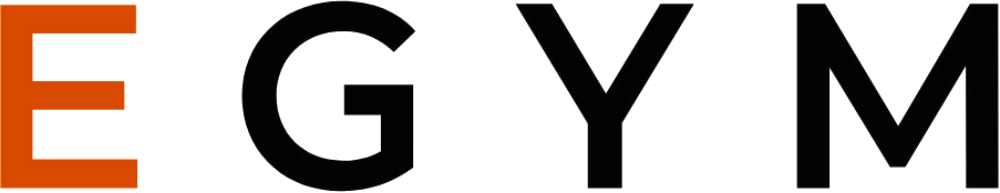
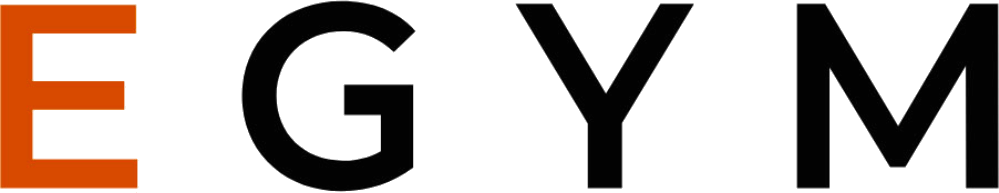
v1.36.0 review fixes: raster marks lose the margins their opaque ground hid, the clients test checks tight boxes and transparent grounds, the chevron note names both routes
Consumers (final state of v1.36.0):
- clients/bunting.webp is 165 x 52 (was 168 x 65 with a white margin of 7 rows above, 6 below
  and 3 columns right, hidden by its old opaque ground); egym.webp and haufe-group.webp lose one
  transparent column. Bünting's height is 0.577 (the release commit wrote 0.671).
- test/clients.test.ts fails on a mark whose box keeps more than one pixel at 2400 px of rim and
  an antialiased pixel per side, on a mark with no transparent edge pixel, and on a height more
  than 0.005 from its recomputed value. Controls: the pre-1.36 moia.svg and ionos.webp fail it.
- scripts/clients.ts renders each mark once as raw pixels; the heights are unchanged. Its
  comment states the rule's terms.
- README: a chevron span beside a heading with a shorter line makes a centred row as tall as the
  summary's line; inside the heading, or given the heading's type (text-lg), it keeps the
  heading's height (os /surveys: 32.0 px now, 29.6 px with either route).
Renamed: clients/neue-fische.webp -> clients/neue-fische.svg. No command is renamed, no argument
changes.

diff --git a/scripts/clients.ts b/scripts/clients.ts
@@ -1,9 +1,8 @@
 #!/usr/bin/env bun
 // Writes each client mark's `height` into clients/clients.json: the share of a row's height at which
-// the mark reads at the same visual weight as the others. Every mark covers row² × 1.1, a wide mark
-// a little more per unit of log aspect, a light, thin mark more than a dense one (ink share against
-// a typical 0.27, the factor clamped to 0.8 to 1.6), never taller than the row. The mark's width is
-// that height times the aspect of its file; test/clients.test.ts fails on a stale height.
+// it reads as heavy as the others. Every mark covers row² × 1.1, a wide mark a little more per unit
+// of log aspect (aspect^0.1), a light, thin mark more than a dense one (the square root of a typical
+// ink share of 0.27 over its own, clamped to 0.8 to 1.6), never taller than the row.
 // Usage: bun scripts/clients.ts
 import { readFileSync, writeFileSync } from "node:fs";
 import { join } from "node:path";
@@ -14,9 +13,17 @@ const FILE = join(ROOT, "clients/clients.json");
 
 type Client = { name: string; file: string; height?: number; [key: string]: unknown };
 
+/** A mark's pixels at print density. */
+export const render = (file: string) =>
+  sharp(join(ROOT, "clients", file), { density: 600 })
+    .ensureAlpha()
+    .raw()
+    .toBuffer({ resolveWithObject: true });
+type Pixels = Awaited<ReturnType<typeof render>>;
+
 /** Share of the mark's box covered by ink: opaque and dark counts fully. */
-async function ink(png: Buffer) {
-  const { data, info } = await sharp(png)
+async function ink(mark: Pixels) {
+  const { data, info } = await sharp(mark.data, { raw: mark.info })
     .resize({ height: 80 })
     .raw()
     .toBuffer({ resolveWithObject: true });
@@ -28,13 +35,9 @@ async function ink(png: Buffer) {
   return sum / (info.width * info.height);
 }
 
-export async function height(file: string) {
-  const { data, info } = await sharp(join(ROOT, "clients", file), { density: 600 })
-    .ensureAlpha()
-    .png()
-    .toBuffer({ resolveWithObject: true });
-  const aspect = info.width / info.height;
-  const weight = Math.min(1.6, Math.max(0.8, Math.sqrt(0.27 / (await ink(data)))));
+export async function height(mark: Pixels) {
+  const aspect = mark.info.width / mark.info.height;
+  const weight = Math.min(1.6, Math.max(0.8, Math.sqrt(0.27 / (await ink(mark)))));
   return Math.round(Math.min(1, Math.sqrt((1.1 * weight * aspect ** 0.1) / aspect)) * 1000) / 1000;
 }
 
@@ -42,6 +45,6 @@ export const clients = (): Client[] => JSON.parse(readFileSync(FILE, "utf8"));
 
 if (import.meta.main) {
   const list = clients();
-  for (const c of list) c.height = await height(c.file);
+  for (const c of list) c.height = await height(await render(c.file));
   writeFileSync(FILE, JSON.stringify(list, null, 2) + "\n");
 }

diff --git a/test/clients.test.ts b/test/clients.test.ts
@@ -1,15 +1,27 @@
 import { expect, test } from "bun:test";
-import { existsSync } from "node:fs";
-import { join } from "node:path";
-import { clients, height } from "../scripts/clients";
-import { ROOT } from "../scripts/git";
+import sharp from "sharp";
+import { clients, height, render } from "../scripts/clients";
 
-test("every client mark exists and its height is fresh", async () => {
+// Each mark's box ends on its drawn edge, one pixel at 2400 px of rim and an antialiased pixel per renderer
+// apart, and some pixel on its edge is transparent, so its ground is too. Its height is fresh.
+test("every client mark is tight on a transparent ground and its height is fresh", async () => {
   for (const c of clients()) {
-    expect(existsSync(join(ROOT, "clients", c.file))).toBe(true);
-    expect({ file: c.file, height: c.height }).toEqual({
+    const mark = await render(c.file);
+    const { width, height: tall, channels } = mark.info;
+    const { info } = await sharp(mark.data, { raw: mark.info })
+      .trim({ threshold: 0 })
+      .toBuffer({ resolveWithObject: true });
+    const slack = (2 * Math.max(width, tall)) / 2400 + 4;
+    const alpha = (x: number, y: number) => mark.data[(y * width + x) * channels + 3];
+    const edge = [
+      ...Array.from({ length: width }, (_, x) => [alpha(x, 0), alpha(x, tall - 1)]),
+      ...Array.from({ length: tall }, (_, y) => [alpha(0, y), alpha(width - 1, y)]),
+    ].flat();
+    expect({
       file: c.file,
-      height: await height(c.file),
-    });
+      tight: width - info.width <= slack && tall - info.height <= slack,
+      transparent: edge.includes(0),
+    }).toEqual({ file: c.file, tight: true, transparent: true });
+    expect(c.height).toBeCloseTo(await height(mark), 2);
   }
-});
+}, 30_000);

diff --git a/README.md b/README.md
@@ -200,13 +200,12 @@ A native `<details>` wears the brand chevron in place of the browser's triangle:
 `disclosure.css`, or the expert layer, which imports it, and give the details the class
 `hw-disclosure`. The chevron is Lucide's chevron-right in the summary's text colour, 1em wide,
 0.5rem before the label, in the middle of its first line where the summary aligns on the baseline
-or the start, in a box one line of its own type high, and turns down while open (150 ms, at once under reduced motion). Where
+or the start, and turns down while open (150 ms, at once under reduced motion). Where
 the chevron belongs elsewhere in the summary, inside its heading for one, put
-`<span class="hw-disclosure-chevron" aria-hidden="true"></span>` there. A span beside a heading
-whose line is shorter than the summary's makes a centred row as tall as the summary's line: give
-the span the heading's type (`text-lg` beside a `text-lg` heading) to keep the heading's height.
-`hw-disclosure-count` is
-the neutral count pill. The rules sit in `@layer components`, so the surface's own type, colour,
+`<span class="hw-disclosure-chevron" aria-hidden="true"></span>` there: its box is one line of
+the type around it high, so beside a heading with a shorter line it makes a centred row as tall
+as the summary's line; inside the heading, or given the heading's type, it keeps the heading's. `hw-disclosure-count` is the
+neutral count pill. The rules sit in `@layer components`, so the surface's own type, colour,
 padding and Tailwind utilities win.
 
 ### The shared elements

diff --git a/CLAUDE.md b/CLAUDE.md
@@ -30,9 +30,9 @@ data or secret.
 - `clients/`: the client marks h&w may show, this repo's own: `clients.json` lists each client's
   name and mark file in display order, keeping neighbours from different industries, with the
   mark's source where known. `"onepager": false` keeps a mark off the os onepagers' client row,
-  which shows every other entry. Each mark's box ends on its drawn edge, its ground transparent;
-  its `height`, the share of a row it takes at equal visual weight, comes from
-  `bun scripts/clients.ts`, which the unit tests check. Outside `manifest.json`.
+  which shows every other entry. `bun scripts/clients.ts` writes each mark's `height` (README);
+  `test/clients.test.ts` fails on a stale one or a mark whose box does not end on its drawn edge.
+  Outside `manifest.json`.
 - `applications/<family>/`: the files made from the brand for one use each, outside the package:
   device and call backgrounds, channel banners, LinkedIn post images, avatars, GitHub social previews, booth banners,
   gradients, merch print files, device stickers, mail signatures. Where a script builds a family it sits beside the files and writes
